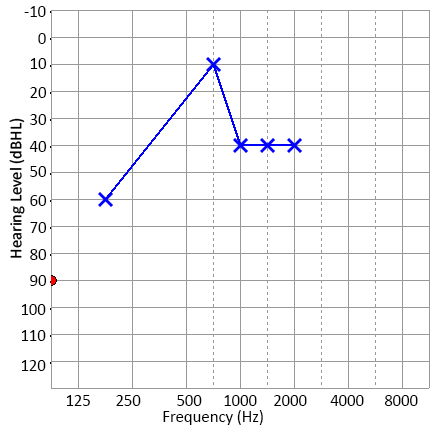
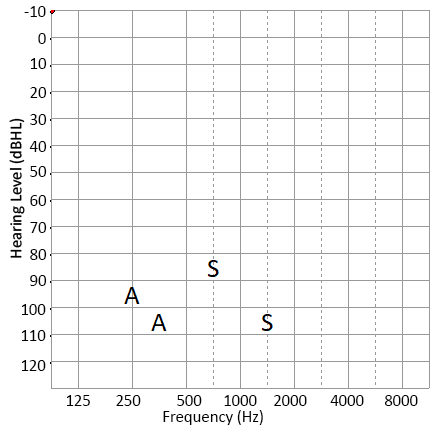
base app

diff --git a/template/export.html b/template/export.html
@@ -175,17 +175,17 @@
         <div class="personal-details">
           <div class="row-1">
             <div class="headings">Name:</div>
-            <div class="values">fadsfk</div>
+            <div class="values"></div>
             <div class="headings">Age/ Gender:</div>
-            <div class="values">10 - M</div>
+            <div class="values"> - </div>
             <div class="headings">Date:</div>
-            <div class="values">2021-05-02</div>
+            <div class="values">2021-06-03</div>
             <div class="headings">Case No.:</div>
             <div class="values">1</div>
           </div>
           <div class="row-2">
             <div class="headings">Chief Complaints:</div>
-            <div class="values">fosaidjfaoisdj</div>
+            <div class="values"></div>
           </div>
           <div class="graph">
             <div class="title bold-me">Pure Tone Audiometry</div>
@@ -202,7 +202,7 @@
           </div>
           <div class="row-3">
             <div class="headings">Comments:</div>
-            <div class="values">adfads</div>
+            <div class="values"></div>
           </div>
           <div class="row-4">
             <div class="table-1">
@@ -213,8 +213,8 @@
                   <td>Left<br />&nbsp;</td>
                 </tr>
                 <tr>
-                  <td rowspan="2">dsa</td>
-                  <td rowspan="2">ue3</td>
+                  <td rowspan="2"></td>
+                  <td rowspan="2"></td>
                 </tr>
               </table>
             </div>
@@ -228,13 +228,13 @@
                 </tr>
                 <tr>
                   <td>Rinne</td>
-                  <td>dsia</td>
-                  <td>1</td>
+                  <td></td>
+                  <td></td>
                 </tr>
                 <tr>
                   <td>Weber</td>
-                  <td>1</td>
-                  <td>1</td>
+                  <td></td>
+                  <td></td>
                 </tr>
               </table>
             </div>
@@ -250,32 +250,32 @@
                 </tr>
                 <tr>
                   <td>Right</td>
-                  <td>1</td>
-                  <td>1</td>
-                  <td>1</td>
-                  <td>1</td>
+                  <td></td>
+                  <td></td>
+                  <td></td>
+                  <td></td>
                 </tr>
                 <tr>
                   <td>Left</td>
-                  <td>1</td>
-                  <td>1</td>
+                  <td></td>
+                  <td></td>
                   <td>vl-wrs^</td>
-                  <td>1</td>
+                  <td></td>
                 </tr>
               </table>
             </div>
           </div>
           <div class="row-5">
             <div class="headings">Right Ear:</div>
-            <div class="values">1</div>
+            <div class="values"></div>
           </div>
           <div class="row-6">
             <div class="headings">Left Ear:</div>
-            <div class="values">Hearing Sensitivity with normal limits1</div>
+            <div class="values"></div>
           </div>
           <div class="row-7">
             <div class="headings">Recommendations:</div>
-            <div class="values">1</div>
+            <div class="values"></div>
           </div>
           <div class="row-8">
             <div class="row-8-blank"></div>

diff --git a/template/pdf.html b/template/pdf.html
@@ -95,7 +95,7 @@
       }
       .row-4 {
         display: grid;
-        grid-template-columns: 1fr 1fr 1fr;
+        grid-template-columns: 0.8fr 1fr 2fr;
       }
       .table-1,
       .table-2,
@@ -243,6 +243,7 @@
               <table>
                 <tr>
                   <td></td>
+                  <td>PTA<br />(dB HL)</td>
                   <td>SAT<br />(dB HL)</td>
                   <td>SRT<br />(dB HL)</td>
                   <td>WRS<br />(%) @</td>
@@ -250,6 +251,7 @@
                 </tr>
                 <tr>
                   <td>Right</td>
+                  <td>^r-pta^</td>
                   <td>^r-sat^</td>
                   <td>^r-srt^</td>
                   <td>^r-wrs^</td>
@@ -257,6 +259,7 @@
                 </tr>
                 <tr>
                   <td>Left</td>
+                  <td>^l-pta^</td>
                   <td>^l-sat^</td>
                   <td>^l-srt^</td>
                   <td>vl-wrs^</td>

diff --git a/main.py b/main.py
@@ -588,11 +588,13 @@ def MainWindow(opened=False, openedData={}):
             c2.create_text(oc[0], oc[1], text='S',font='calibri 20', tags=arg+str(points_count[arg]))
             points[arg].append([oc[0], oc[1], arg+str(points_count[arg])])
             points_count[arg]+=1
+            print(points)
         if (arg == 'blue_aided_sf'):
             re_check_y_for_same(arg, oc[0], oc[1])
             c2.create_text(oc[0], oc[1], text='A',font='calibri 20', tags=arg+str(points_count[arg]))
             points[arg].append([oc[0], oc[1], arg+str(points_count[arg])])
             points_count[arg]+=1
+            print(points)
         if(arg == 'blue_X'):
             re_check_y_for_same(arg, oc[0], oc[1])
             c2.create_image(oc[0], oc[1], image=blue_X, tags=arg+str(points_count[arg]))
@@ -1027,7 +1029,7 @@ def MainWindow(opened=False, openedData={}):
             html_file = f.read()
         html_file = html_file.replace('^name^', name.get())
         html_file = html_file.replace('^age^', age.get())
-        html_file = html_file.replace('^gender^', myGender,get())
+        html_file = html_file.replace('^gender^', myGender.get())
         html_file = html_file.replace('^date^', str(curr_date))
         try:
             cursor.execute('SELECT * FROM cases')
@@ -1055,8 +1057,8 @@ def MainWindow(opened=False, openedData={}):
         html_file = html_file.replace('^reccomendations^', rec.get())
         with open('template/export.html', 'w') as f:
             f.write(html_file)
-        insert_data_list = [name.get(), age.get(), myGender, str(curr_date), complaints.get(), json.dumps(points), comments.get(), oto_right.get(), oto_left.get(), tfr_right.get(), tfr_left.get(), tfw_right.get(), tfw_left.get(), sa_right_sat.get(), sa_left_sat.get(), sa_right_srt.get(), sa_left_srt.get(), sa_right_wrs.get(), sa_left_wrs.get(), sa_right_ulc.get(), sa_left_ulc.get(), right_ear.get(), left_ear.get(), rec.get(), int(the_case[0])]
-        cursor.execute("UPDATE `cases` SET `name` = ?, `age` = ?, `gender` = ?, `date` = ?, `complaints` = ?, `graphs` = ?, `comments` = ?, `r-oto` = ?, `l-oto` = ?, `r-rennie` = ?, `l-rennie` = ?, `r-weber` = ?, `l-weber` = ?, `r-sat` = ?, `l-sat` = ?, `r-srt` = ?, `l-srt` = ?, `r-wrs` = ?, `l-wrs` = ?, `r-ulc` = ?, `l-ulc` = ?, `right-ear` = ?, `left-ear` = ?, `recommendation` = ? WHERE `case_id` = ?", insert_data_list)
+        insert_data_list = [name.get(), age.get(), myGender.get(), str(curr_date), complaints.get(), json.dumps(points), comments.get(), oto_right.get(), oto_left.get(), tfr_right.get(), tfr_left.get(), tfw_right.get(), tfw_left.get(), sa_right_sat.get(), sa_left_sat.get(), sa_right_srt.get(), sa_left_srt.get(), sa_right_wrs.get(), sa_left_wrs.get(), sa_right_ulc.get(), sa_left_ulc.get(), right_ear.get(), left_ear.get(), rec.get()]
+        cursor.execute("INSERT INTO `cases`(`name`, `age`, `gender`, `date`, `complaints`, `graphs`, `comments`, `r-oto`, `l-oto`, `r-rennie`, `l-rennie`, `r-weber`, `l-weber`, `r-sat`, `l-sat`, `r-srt`, `l-srt`, `r-wrs`, `l-wrs`, `r-ulc`, `l-ulc`, `right-ear`, `left-ear`, `recommendation`) VALUES (?,?,?,?,?,?,?,?,?,?,?,?,?,?,?,?,?,?,?,?,?,?,?,?)", insert_data_list)
         conn.commit()
         driver = webdriver.Chrome('chromewebdriver.exe')
         driver.get('E:\\projects\\ascending_audiology\\template\\export.html')
@@ -1078,6 +1080,7 @@ def MainWindow(opened=False, openedData={}):
 
     # For Opened Cases
     if opened:
+        print(the_case)
         # case_no.insert(0, the_case[0])
         name.insert(0, the_case[1])
         age.insert(0, the_case[2])
